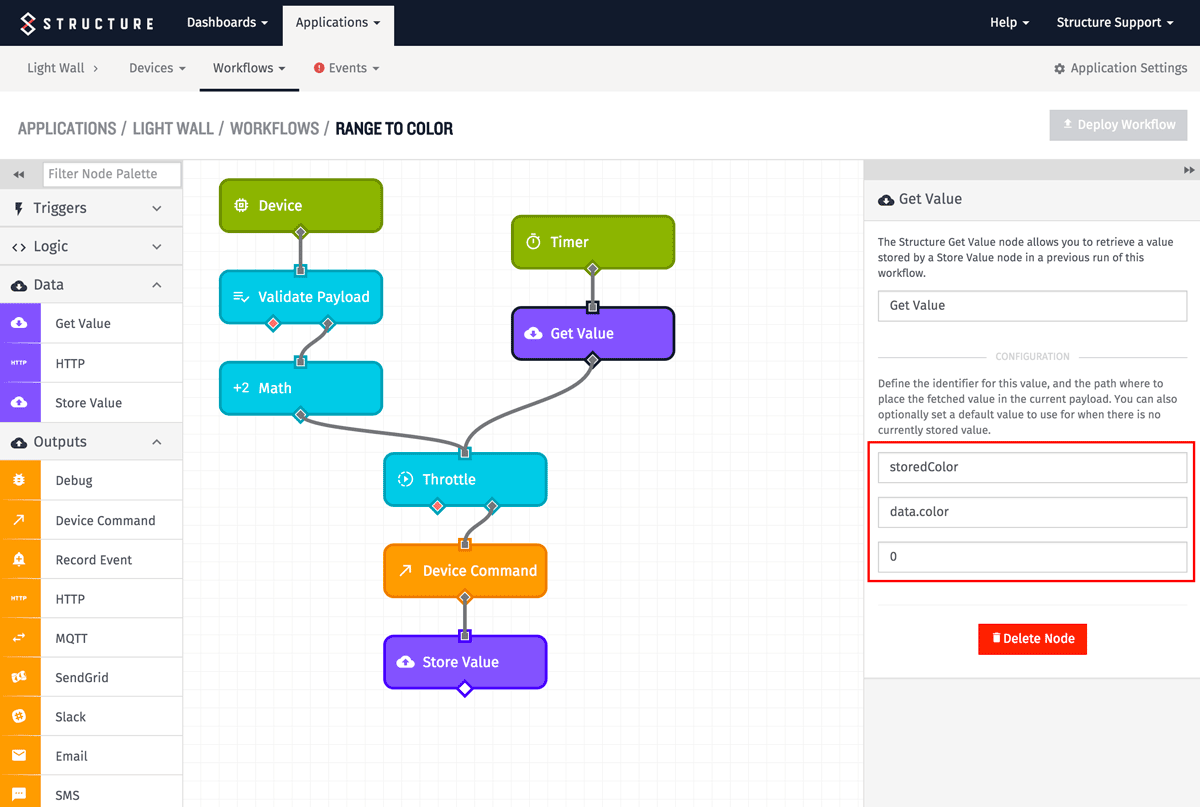
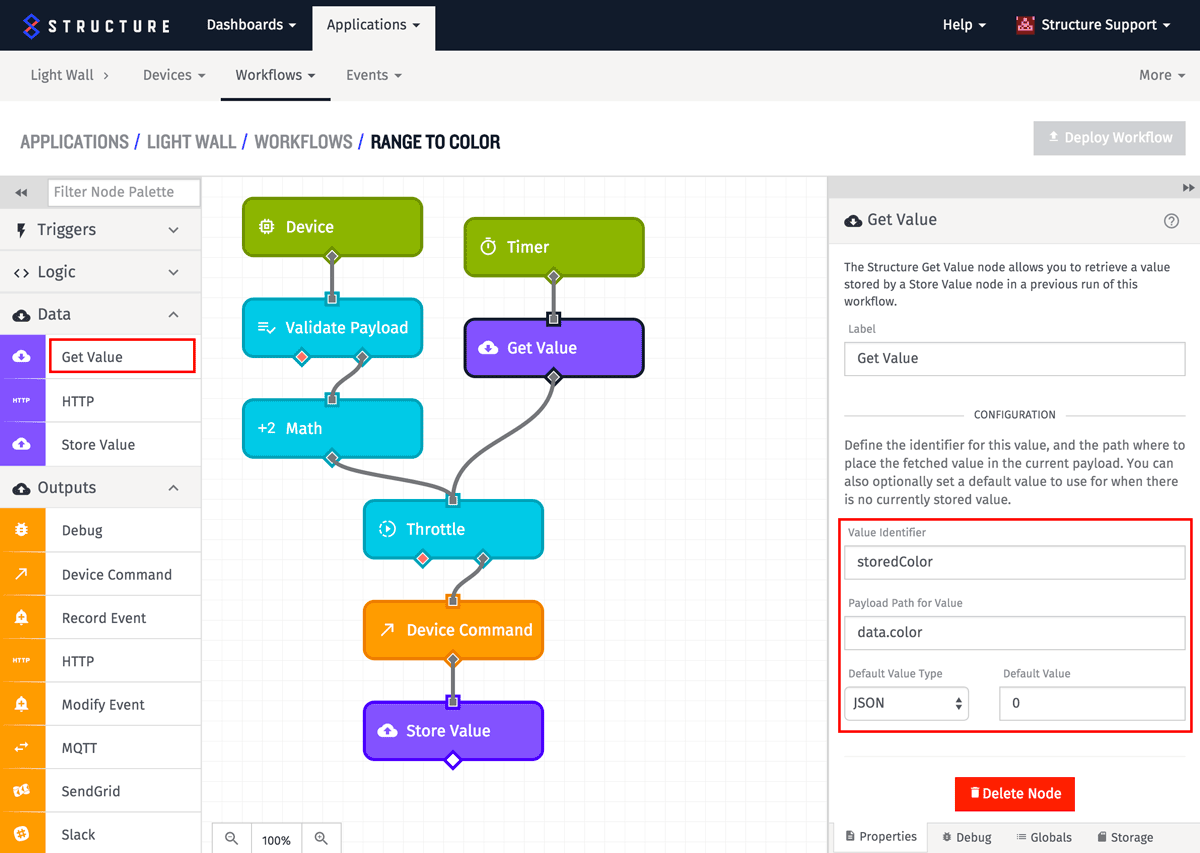
updates to get value node

diff --git a/docs/workflows/data/get-value.md b/docs/workflows/data/get-value.md
@@ -6,7 +6,11 @@ The get value node allows a workflow to retrieve a value stored in a previous ru
 
 ## Configuration
 
-There are three configuration properties for the get value node - an identifier, a payload path, and an optional default value. The identifier is how the workflow knows what value to retrieve - and while it can be an arbitrary string, it should match the identifier of a previously stored value - i.e., the identifier used in the configuration of a [store value node](/workflows/data/store-value/).  The payload path is a JSON path which defines where the workflow should place the retrieved value on the current payload.  The optional default value is only used if there is no value previously stored with the specified identifier - in which case, the specified default value is placed on the payload instead.  If there is no value stored with the given identifier, and no default value is given, `null` is placed at the payload path.
+There are three configuration properties for the get value node - an identifier, a payload path, and an optional default value. The identifier is how the workflow knows what value to retrieve - and while it can be an arbitrary string, it should match the identifier of a previously stored value - i.e., the identifier used in the configuration of a [store value node](/workflows/data/store-value/).  The payload path is a JSON path which defines where the workflow should place the retrieved value on the current payload.  The optional default value is only used if there is no value previously stored with the specified identifier - in which case, the specified default value is placed on the payload instead. There are a couple choices for configuring the default value:
+
+*   With **Payload Path**, what should be provided is a json path - and the node will evaluate that path against the current payload to determine the default value to use.
+*   **Template** means the value will be evaluated as a standard templatable field, and the result will be the default value to use.
+*   **JSON** means the value will be treated as static JSON, and the resulting JSON parsed object will be what will be used as the default value.  Using this choice, you can set static complex objects as the value, or even just simple values like true or false.  This is the default choice, and the default JSON to use will be null.
 
 ![Get Value Node Example](/images/workflows/data/get-value-node-example.png "Get Value Node Example")
 
